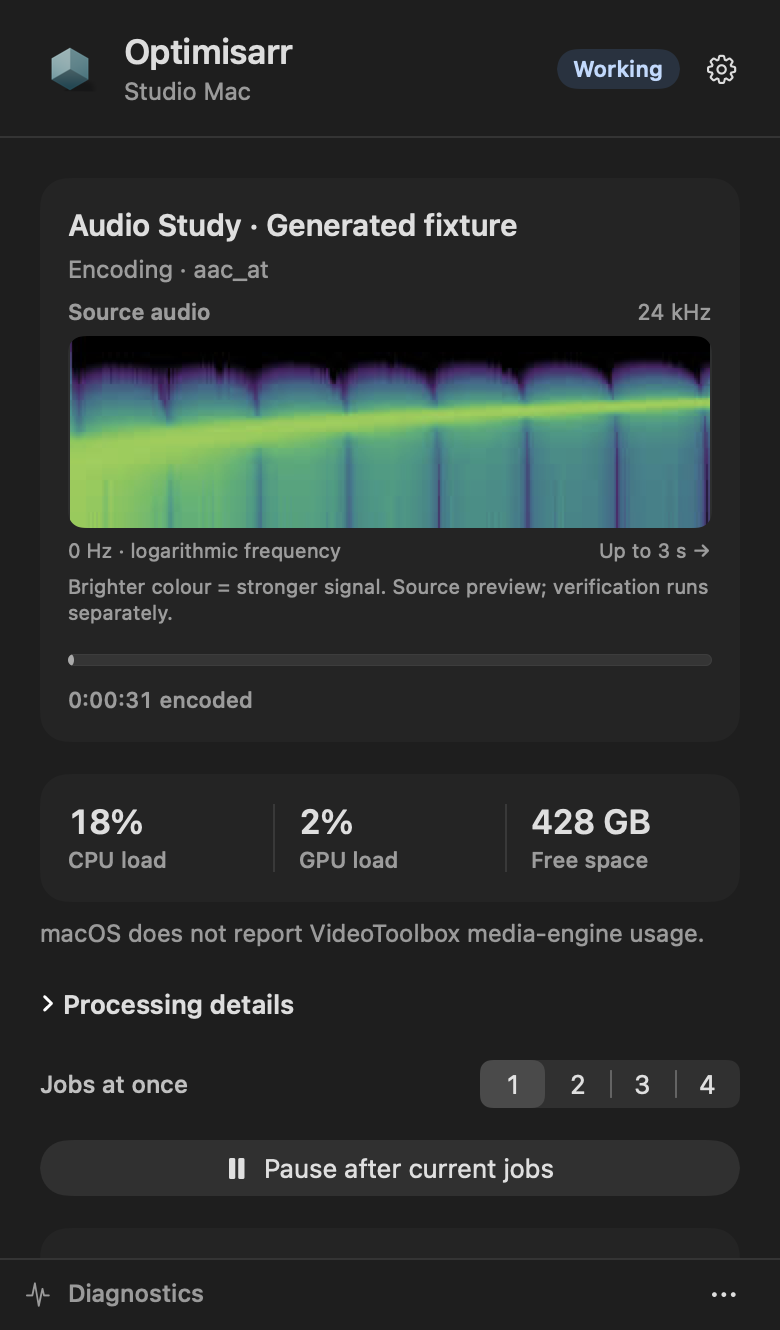
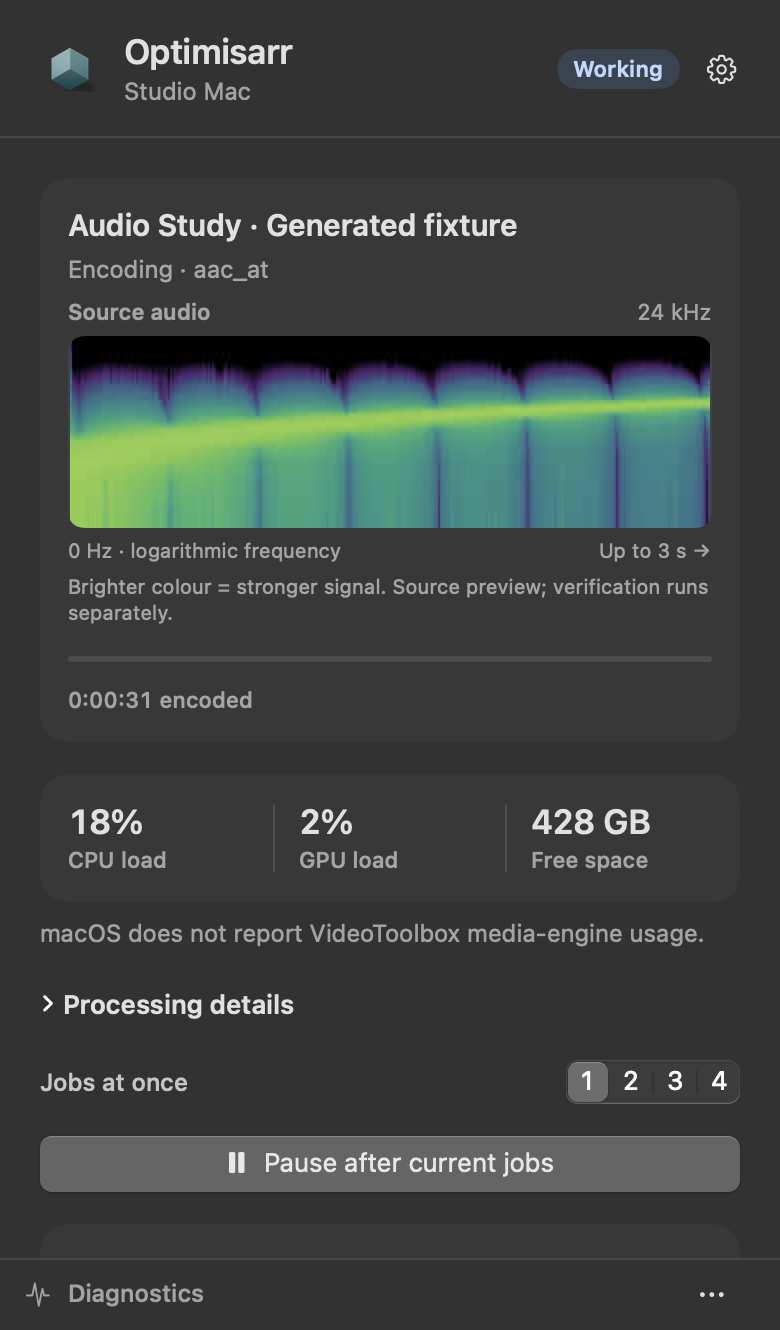
docs: resolve visual review findings and record capture hashes

Changed region(s): [[0.0308, 0.7707, 0.9538, 0.9248]]

diff --git a/docs/images/README.md b/docs/images/README.md
@@ -26,7 +26,8 @@ and sidecar versions are read from project metadata.
 
 The script uses English, dark appearance, a fixed documentation clock, and reduced motion. The
 standard viewport is 1440 × 1000; the Quarantine review uses 1440 × 1500 to show both the comparison
-and decision controls, the quality lab uses 1440 × 1250, and the mobile Queue uses 390 × 1000.
+and decision controls, the quality lab uses 1440 × 1250, Exact copies uses 1440 × 1400,
+the soundtrack report uses 1440 × 1900, and the mobile Queue uses 390 × 1000.
 Focused dialogs/cards are captured without unrelated surrounding UI. Some stable filenames remain
 aliases for the same current capture so existing documentation links continue to work.
 
@@ -55,8 +56,10 @@ run `python3 scripts/check_docs.py` and `git diff --check` from the repository r
 ## Sidecar captures
 
 The [user gallery](../usage/screenshots.md#sidecars) links the current native and Linux images.
-All job state, telemetry, machine names and addresses are fabricated. Spectrograms on Mac and
-Linux are measured from this generated three-second chirp, not private audio:
+All job state, telemetry, machine names and addresses are fabricated. Spectrograms on Mac,
+Windows and Linux are measured from the committed original fixture
+[`sidecar-spectrum.jpg`](../../web/scripts/fixtures/sidecar-spectrum.jpg), generated from this
+three-second chirp, not private audio:
 
 ```bash
 ffmpeg -hide_banner -loglevel error -f lavfi \
@@ -69,19 +72,20 @@ ffmpeg -hide_banner -loglevel error -f lavfi \
 
 ```bash
 cd web
-node scripts/capture-linux-sidecar.mjs /tmp/generated-spectrum.jpg
+node scripts/capture-linux-sidecar.mjs
+# Optional: pass an alternative generated spectrum JPEG as the first argument.
 ```
 
 This captures audio, video encoding, idle and pairing in dark, light and phone layouts. It
 starts its own Vite server on `127.0.0.1:4219`, refuses an occupied port, blocks external and
 unexpected API requests, and never submits a pairing code. It uses the shipped
 [`Sidecar.svelte`](../../web/src/Sidecar.svelte), a fixed clock, English, UTC and reduced motion.
-The supplied spectrum must fit the worker's 8 KiB preview limit. Layout overflow, application
-errors or an unloaded preview fail the capture. The original `capture-audio-sidecar.mjs`
+The default is the committed generated chirp spectrum; a supplied spectrum must fit the
+worker's 8 KiB preview limit. Layout overflow, application errors or an unloaded preview fail the capture. The original `capture-audio-sidecar.mjs`
 command remains available for audio-only refreshes.
 
 [`linux-sidecar-screenshot-manifest.json`](linux-sidecar-screenshot-manifest.json) records the
-source revision, version, viewport variants and generated filenames.
+capture date, source revision, version, viewport variants, spectrum hash and image hashes.
 
 ### Native Mac and Windows
 
@@ -90,14 +94,15 @@ fabricated state; they never pair with a server or claim work:
 
 ```bash
 # macOS: release app or locally built executable
-OPTIMISARR_RENDER_SPECTRUM=/tmp/generated-spectrum.jpg \
-  /Applications/OptimisarrSidecar.app/Contents/MacOS/OptimisarrSidecar \
-  --render-menu /tmp/mac-sidecar-captures
+swift build --package-path sidecars/macos -c release
+OPTIMISARR_RENDER_SPECTRUM="$PWD/web/scripts/fixtures/sidecar-spectrum.jpg" \
+OPTIMISARR_RENDER_FRAME="$PWD/web/scripts/fixtures/sidecar-frame.png" \
+  sidecars/macos/.build/release/OptimisarrSidecar --render-menu /tmp/mac-sidecar-captures
 ```
 
 ```powershell
 # Windows: run on Windows after building the app
-$env:OPTIMISARR_RENDER_SPECTRUM = 'C:\Temp\generated-spectrum.jpg'
+$env:OPTIMISARR_RENDER_SPECTRUM = 'C:\path\to\optimisarr\web\scripts\fixtures\sidecar-spectrum.jpg'
 .\Optimisarr.Sidecar.Tray.exe --render-monitor C:\Temp\windows-sidecar-captures
 ```
 
@@ -108,12 +113,25 @@ SHA-256 hashes and source provenance. Most names gain `optimisarr-sidecar-macos-
 becomes `idle`, and Mac `unpaired` becomes `pairing`. Light audio retains the older
 `audio-light` suffix. Copy only the listed states, retaining existing documentation filenames.
 
-The 2026-10-09 refresh uses the notarised Mac 0.2.22 release app and native WPF renders from
-[the green Windows dev CI run](https://github.com/jellman86/optimisarr/actions/runs/37832347462).
-Windows CI does not supply `OPTIMISARR_RENDER_SPECTRUM`, so its audio image deliberately shows
-the labelled preview-unavailable fallback. Mac snapshots use a flat background and bordered
-controls because offscreen rendering cannot capture the live window-server glass; on macOS 26
-the live popover uses system glass. These rendering limits are not measurements of a live fleet.
+The 2026-10-09 refresh uses a local release build of the Mac 0.2.22 UI with corrected capture
+fixtures, and native WPF renders from Windows dev CI. Mac `OPTIMISARR_RENDER_FRAME` supplies
+an original generated landscape instead of the renderer's default colour ramp. Without a
+bundle the Mac executable reports an unknown build; its source revision and renderer hashes
+are recorded in the manifest. The installed app is not changed.
+
+Windows CI supplies the committed spectrum fixture. Download its `windows-sidecar-ui` artifact
+from the exact run linked in the native manifest:
+
+```bash
+gh run download <run-id> --repo jellman86/optimisarr \
+  --name windows-sidecar-ui --dir /tmp/windows-sidecar-captures
+```
+
+Mac snapshots use a flat background and bordered controls because offscreen rendering cannot
+capture the live window-server glass; on macOS 26 the live popover uses system glass.
+Indeterminate activity bars freeze in native snapshots and do not show a completion percentage;
+encoded time remains readable. The focused Mac details crop ends at the final technical row.
+These rendering limits are not measurements of a live fleet.
 
 ## Dated application review evidence
 

diff --git a/docs/usage/screenshots.md b/docs/usage/screenshots.md
@@ -30,9 +30,13 @@ for the full details, including on a phone. Names and devices can be hidden per 
 
 ![Schedule paused for fabricated film, episode and music playback with viewer and device details](../images/optimisarr-schedule-playback-dark.png)
 
-| Phone Queue | Viewer names hidden |
+| Phone Queue | Titles only |
 |---|---|
-| <img src="../images/optimisarr-queue-playback-mobile-dark.png" width="260" alt="Phone Queue showing three fabricated playback holds above the waiting jobs"> | <img src="../images/optimisarr-settings-viewers-hidden-dark.png" width="650" alt="Saved media-server connection labelled Viewers hidden, with titles still shown in the playback pause"> |
+| <img src="../images/optimisarr-queue-playback-mobile-dark.png" width="260" alt="Phone Queue showing three fabricated playback holds above the work lanes"> | <img src="../images/optimisarr-queue-playback-private-dark.png" width="650" alt="Queue playback holds listing only fabricated titles, with viewers and devices hidden"> |
+
+The saved connection confirms the privacy choice:
+
+![Saved media-server connection labelled Viewers hidden](../images/optimisarr-settings-viewers-hidden-dark.png)
 
 See [media-server settings](../integrations/media-servers.md#what-a-playback-pause-shows) for the
 privacy control and a title-only Queue example.
@@ -50,7 +54,7 @@ All three show work and available resource readings; missing telemetry stays una
 
 | Processing details | Preferences |
 |---|---|
-| <img src="../images/optimisarr-sidecar-macos-details.png" width="390" alt="Mac Processing details showing receive, encode, verify and return stages for a fabricated job"> | <img src="../images/optimisarr-sidecar-macos-light-preferences.png" width="390" alt="Mac Preferences with work location and login controls"> |
+| <img src="../images/optimisarr-sidecar-macos-details.png" width="390" alt="Focused Mac Processing details showing the job, preview and technical readouts"> | <img src="../images/optimisarr-sidecar-macos-light-preferences.png" width="390" alt="Mac Preferences with work location and login controls"> |
 
 | State | Dark | Light |
 |---|---|---|
@@ -62,8 +66,9 @@ All three show work and available resource readings; missing telemetry stays una
 | Processing details | Shown above | [Details](../images/optimisarr-sidecar-macos-light-details.png) |
 | Preferences | [Preferences](../images/optimisarr-sidecar-macos-preferences.png) | Shown above |
 
-These are actual native views rendered offscreen by the 0.2.22 app. The renderer uses a flat
+These are actual native views rendered offscreen from the 0.2.22 UI with corrected capture fixtures. The renderer uses a flat
 snapshot background and bordered controls; macOS 26 supplies glass in the live popover.
+Indeterminate activity bars freeze in native snapshots; encoded time remains readable.
 See the [Mac installation guide](../../sidecars/macos/README.md).
 
 ### Windows tray
@@ -81,13 +86,14 @@ See the [Mac installation guide](../../sidecars/macos/README.md).
 | Ready for work | [Idle](../images/optimisarr-sidecar-windows-idle.png) | — |
 | One job's Processing details | [Details](../images/optimisarr-sidecar-windows-details.png) | [Details](../images/optimisarr-sidecar-windows-light-details.png) |
 | Two jobs | Shown above | [Activity](../images/optimisarr-sidecar-windows-light-two-jobs.png) |
-| Audio preview unavailable | [Labelled fallback](../images/optimisarr-sidecar-windows-audio.png) | [Labelled fallback](../images/optimisarr-sidecar-windows-audio-light.png) |
-| Video preview unavailable | [Labelled fallback](../images/optimisarr-sidecar-windows-preview-fallback.png) | [Labelled fallback](../images/optimisarr-sidecar-windows-light-preview-fallback.png) |
+| Audio with generated spectrum | [Audio](../images/optimisarr-sidecar-windows-audio.png) | [Audio](../images/optimisarr-sidecar-windows-audio-light.png) |
+| Video preview unavailable | [Placeholder](../images/optimisarr-sidecar-windows-preview-fallback.png) | [Placeholder](../images/optimisarr-sidecar-windows-light-preview-fallback.png) |
 | Cancelable shutdown countdown | [Countdown](../images/optimisarr-sidecar-windows-shutdown.png) | [Countdown](../images/optimisarr-sidecar-windows-light-shutdown.png) |
 | Preferences | [Preferences](../images/optimisarr-sidecar-windows-preferences.png) | Shown above |
 
-These are native WPF renders from the current Windows CI build. Its audio fixture does not
-supply a spectrum, so that capture demonstrates the labelled fallback. The background service
+These are native WPF renders from the current Windows CI build. Audio shows the same generated
+chirp spectrum as Mac and Linux. The video fallback is an icon placeholder. Indeterminate
+activity bars freeze in native snapshots; they do not show a completion percentage. The background service
 continues working when the tray closes. See the [Windows guide](../../sidecars/windows/README.md).
 
 ### Linux container

diff --git a/docs/setup/remote-workers.md b/docs/setup/remote-workers.md
@@ -34,7 +34,7 @@ processing details, pause, preferences, and diagnostics.
 
 | Mac menu bar | Windows tray |
 |---|---|
-| <img src="../images/optimisarr-sidecar-macos-encoding.png" width="330" alt="Mac worker encoding a fabricated clip with stage, progress, CPU load and free space"> | <img src="../images/optimisarr-sidecar-windows-encoding.png" width="330" alt="Windows worker encoding a fabricated clip with stage, progress, CPU and GPU load"> |
+| <img src="../images/optimisarr-sidecar-macos-encoding.png" width="330" alt="Mac worker encoding a fabricated clip with stage, encoded time, CPU load and free space"> | <img src="../images/optimisarr-sidecar-windows-encoding.png" width="330" alt="Windows worker encoding a fabricated clip with stage, encoded time, CPU and GPU load"> |
 
 ![Linux worker dashboard showing a fabricated video encode, proved encoders and recent activity](../images/optimisarr-sidecar-linux-encoding-dark.png)
 
@@ -179,12 +179,11 @@ channel compatibility and timed-lyrics guards apply unchanged.
 
 ![Mac Compact Monitor encoding a generated audio fixture with measured source spectrum](../images/optimisarr-sidecar-macos-audio.png)
 
-![Windows Compact Monitor encoding a fabricated audio job with the labelled spectrum-unavailable fallback](../images/optimisarr-sidecar-windows-audio.png)
+![Windows Compact Monitor encoding a fabricated audio job with the measured generated spectrum](../images/optimisarr-sidecar-windows-audio.png)
 
 ![Linux sidecar audio monitor with a generated fixture](../images/optimisarr-sidecar-linux-audio-dark.png)
 
-Documentation captures use fabricated jobs, never private media. Mac and Linux show a
-spectrogram measured from a three-second generated chirp. The Windows CI capture shows
-the labelled fallback because its fixture does not supply a spectrum. Native captures use
+Documentation captures use fabricated jobs, never private media. All three platforms show a
+spectrogram measured from a three-second generated chirp. Native captures use
 the apps’ `--render-menu` and `--render-monitor` modes. See [capture instructions and
 provenance](../images/README.md#sidecar-captures) to reproduce all three platforms.

diff --git a/README.md b/README.md
@@ -62,7 +62,7 @@ live work/load dashboard, with CPU encoding, optional Intel QSV/VAAPI and bounde
 
 | Mac menu bar | Windows tray |
 |---|---|
-| <img src="docs/images/optimisarr-sidecar-macos-encoding.png" width="330" alt="Mac Compact Monitor showing the current encoding stage, progress and resource readings"> | <img src="docs/images/optimisarr-sidecar-windows-encoding.png" width="330" alt="Windows Compact Monitor showing the current encoding stage, progress and resource readings"> |
+| <img src="docs/images/optimisarr-sidecar-macos-encoding.png" width="330" alt="Mac Compact Monitor showing the current encoding stage, encoded time and resource readings"> | <img src="docs/images/optimisarr-sidecar-windows-encoding.png" width="330" alt="Windows Compact Monitor showing the current encoding stage, encoded time and resource readings"> |
 
 [View the screenshot gallery](docs/usage/screenshots.md) for Linux, light appearance, pairing,
 processing details and playback pauses. Screenshots use fabricated dummy media created for

diff --git a/docs/integrations/media-servers.md b/docs/integrations/media-servers.md
@@ -49,6 +49,10 @@ After saving, the pause still identifies the titles while omitting viewers and d
 
 ![Queue playback hold listing only the fabricated titles with viewer names and devices hidden](../images/optimisarr-queue-playback-private-dark.png)
 
+## Sonarr and Radarr
+
+Configure import-aware exclusions under **Settings → Download managers**.
+
 ![Download managers settings showing a fabricated Radarr connection and its connection controls](../images/optimisarr-settings-downloads-dark.png)
 
 ## Notifications
